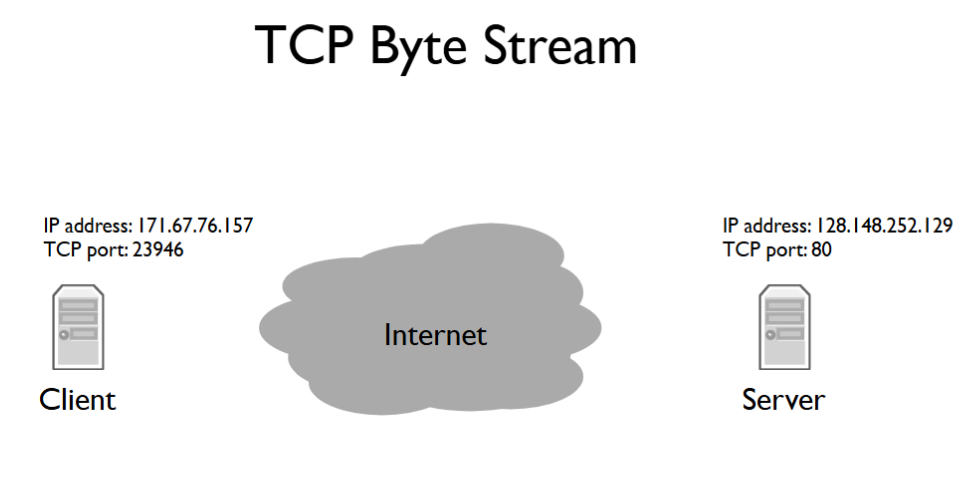
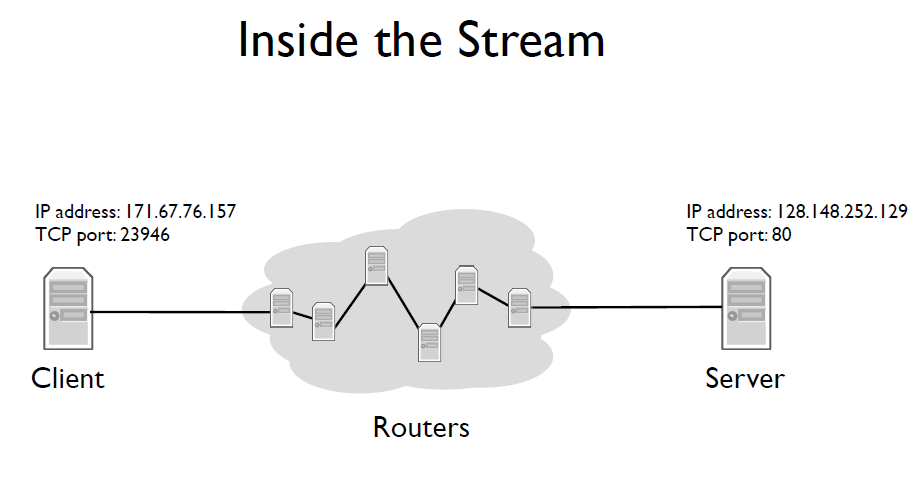
update doc at 1.4 Life of a Packet

Changed region(s): [[0.0305, 0.4092, 1.0, 0.9061], [0.2437, 0.0292, 0.6703, 0.1754]]

diff --git a/docs/lecture_notes/Unit1-Internet-and-IP.md b/docs/lecture_notes/Unit1-Internet-and-IP.md
@@ -106,41 +106,120 @@ bi-directional reliable byte stream between two applications, using application-
 
 # 1.3 The IP service model
 
-### Properties
+## Properties
 
 1. IP is a datagram service
-   The datagram is a packet that is routed individually through 3
-   the network based on the information in its header. In other words, the datagram is self-contained.
+   The datagram is a packet that is routed individually through the network based on the information in its header. In other words, the datagram is self-contained.
+   - Individually routed packets
+   - hop-by-hop routing
 
-2. Unreliable
-3. Best effort
+2. Unreliable: Packets might be dropped
+
+3. Best effort: iut only if nessesary
 4. IP is a connectionless service
+   No per-flow state
+   Packets might be mis-sequenced
 
-### The IP service
 
-1. IP tries to prevent packets from looping forever.
+### Why the IP Service is So Simple?
 
-TTL field(Time To Live):  
-It starts out at a number like 128 and then is decremented by every router it passes through. If it reaches zero, IP concludes that it must be stuck in a loop and the router drops the datagram
+The IP service model was designed with simplicity as a core principle for several interconnected reasons:
+
+1. Network Simplicity and Cost Efficiency
+- **Keep network infrastructure "dumb" and minimal** - This approach enables faster development, streamlined operations, and lower maintenance costs
+- **Hardware optimization** - Simple network components can be implemented using dedicated hardware for high-speed operation
+- **Reliability through simplicity** - Fewer complex components in distributed routers lead to more reliable and affordable systems that require less frequent upgrades
+
+2. End-to-End Principle Implementation
+- **Feature placement at endpoints** - The design philosophy emphasizes implementing intelligence at source and destination computers rather than in the network itself
+- **Application-specific optimization** - Features like reliable communication and congestion control are handled by end hosts, allowing for correct implementation tailored to specific applications
+- **Evolution flexibility** - Software-based implementations on end computers are easier to update and improve compared to network-hardcoded features
+- **Radical departure from traditional models** - This contrasts with telephone systems that relied on simple endpoints and complex network switches
+
+3. Flexibility for Diverse Application Needs
+- **Application-controlled reliability** - Different applications can implement their own reliability mechanisms based on specific requirements
+- **Real-time application support** - Services like video chat benefit from this approach since retransmitted packets might arrive too late to be useful
+- **Custom service selection** - Applications can choose whether they need reliable or unreliable transmission based on their operational needs
+
+4. Universal Link Layer Compatibility
+- **Minimal assumptions about underlying technology** - IP works with both wired and wireless connections without requiring specific link-layer capabilities
+- **Network agnostic design** - The protocol makes few demands on the link layer regarding retransmission or congestion control
+- **Interconnection focus** - Designed specifically to interconnect existing diverse networks, reflecting its origin as the "Internet" (inter-networking)
+
+This simple design philosophy has enabled IP to become the robust foundation for the modern internet while maintaining compatibility across diverse networking technologies and application requirements.
+
+## The IP service Features 
+
+1. Loop Prevention with TTL Field(Time To Live)
+- Purpose: Prevents packets from looping infinitely in the network
+- Mechanism: Uses a Time To Live (TTL) field in the datagram header that starts at a value like 128 and then is decremented by every router it passes through. If it reaches zero, IP concludes that it must be stuck in a loop and the router drops the datagram
+
+- Operation: Each router decrements the TTL by 1; if it reaches zero, the packet is dropped as it's considered stuck in a loop
+- Design philosophy: Simple mechanism that limits damage from looping packets without preventing loops entirely
+
+
 
 2. IP will fragment packets if they are too long.
+
+- Purpose: Handles packets that exceed link-specific size limitations
+- Problem addressed: Different network links have varying maximum packet sizes (e.g., Ethernet: 1500 bytes)
+- Solution: Routers can fragment oversized datagrams into smaller ones with appropriate header fields
+- Reassembly: Destination hosts receive information needed to properly reassemble the original data
+
+
 3. IP uses a header checksum to reduce chances of delivering a datagram to the wrong destination.
-4. two versions of IP in use today:
-   - IPv4, It uses the 32bit addresses you are probably familiar with.
-   - IPv6, which uses 128 bit addresses instead
-5. IP allows new fields to be added to the
-   datagram header
+- Purpose: Reduces chances of delivering datagrams to incorrect destinations due to header corruption
+- Implementation: Includes a checksum field calculated over the entire header
+- Security aspect: Helps prevent accidental misdelivery that could cause security problems
 
-### IPv4-Datagram
 
-![IPv4-Datagram](../images/IPv4-Datagram.png)
 
-- The Protocol ID
-  that tells us what is inside the data field. Essentially, it allows the destination end host to demultiplex arriving packets, sending them to the correct code to process the packet.
-  If the Protocol ID has the value “6” then it tells us the data contains a TCP Segment, and so we can safely pass the datagram to the TCP code and it will be able to parse the segment correctly.
+4. Allow for new IP versions 
+- IPv4: Current dominant version using 32-bit addresses (~90% of end hosts)
+- IPv6: Transition version using 128-bit addresses to address IPv4 address exhaustion
+- Flexibility: Supports gradual migration between versions as the Internet evolves
 
-  The Internet Assigned Numbers Authority (IANA) defines over 140
-  different values of Protocol ID, representing different transport protocols.
+
+5. Extensible Header Options
+- Capability: Allows new fields to be added to the datagram header beyond the standard format
+- Advantages: Enables new features that weren't included in the original specification
+- Disadvantages: May add processing overhead to routers, potentially conflicting with the goal of simplicity
+- Usage: Very few options are commonly used or processed by routers in practice
+
+## IPv4-Datagram
+
+![IPv4-Datagram](../../images/IPv4-Datagram.png)
+
+Here's a summary of the IPv4 header fields and their purposes:
+
+**Essential Fields (the "big three"):**
+1. **Destination IP Address** - Where the packet is going
+2. **Source IP Address** - Where the packet came from
+3. **Protocol ID** - What's inside the data field (e.g., "6" = TCP segment);  
+   Essentially, it allows the destination end host to demultiplex arriving packets, sending them to the correct code to process the packet.
+  Ex: If the Protocol ID has the value “6” then it tells us the data contains a TCP Segment, and so we can safely pass the datagram to the TCP code and it will be able to parse the segment correctly.
+  **The Internet Assigned Numbers Authority (IANA)** defines over 140 different values of Protocol ID, representing different transport protocols.
+
+
+**Version and Size Fields:**
+1. **Version** - Identifies IP version (IPv4 or IPv6)
+2. **Total Packet Length** - Up to 64k Bytes (header + data)
+3. **Header Length** - Size of the header (varies due to optional fields)
+
+**Reliability and Control Fields:**
+7. **Time to Live (TTL)** - Decremented by each router; packet dropped when it reaches zero, preventing infinite loops
+8. **Checksum** - Validates header integrity to avoid misdelivery due to corruption
+
+**Fragmentation Fields:**
+9. **Packet ID, Flags, and Fragment Offset** - Allow routers to break packets into smaller pieces when needed for links with smaller maximum sizes
+
+**Quality of Service:**
+10. **Type of Service** - Hints to routers about packet importance/priority
+
+The key takeaway: IP is deliberately simple. It provides best-effort delivery with minimal guarantees—just basic addressing, demultiplexing, and some mechanisms to prevent disasters like infinite loops.
+
+
+
 
 - The Type of Service field
   gives a hint to routers about how important this packet is.
@@ -150,36 +229,40 @@ It starts out at a number like 128 and then is decremented by every router it pa
 
 # 1.4 Life of a Packet
 
-## Three way handshake
-
-the three way handshake is described as “synchronize,
-synchronize and acknowledge, acknowledge”, or “SYN, SYN-ACK, ACK”.
-
-1. SYN
-   when the client sends a “synchronize” message to the server, often
-   called a SYN.
-
-2. SYN-ACK
-   when the server responds with a “synchronize” message that also acknowledges the clients “synchronize”, or a “synchronize and acknowledge message”, often called a SYN-ACK.
-
-3. ACK
-   when the client responds by acknowledging the server’s synchronize, often called an ACK.
 
 ## TCP Byte Stream
 
-![TCP Byte Stream](../images/TCP-Byte-Stream.png)
+![TCP Byte Stream](../../images/TCP-Byte-Stream.png)
 
-1. an Internet Protocol address
-   is the address the network layer uses to deliver packets to the computer.
+**Two-Level Addressing:**
+To deliver data to applications (not just computers), two addresses are needed:
+1. **Internet Protocol(IP) Address** - Network layer uses this to deliver packets to the destination computer
+2. **TCP Port** - Transport layer uses this to deliver data to the correct application on that computer
 
-2. the TCP port
-   tells the computer’s software which application to deliver data to
+Example: Web servers typically run on **TCP port 80**, 
+So when we open a connection to a web server, we send IP packets to the computer running the web server whose destination address is that computer’s IP address. Those IP packets have TCP segments whose destination port is 80.
+so connections to web servers use the server's IP address plus destination port 80.
 
-Web servers usually run on TCP port 80. So when we open a connection to a web server, we send IP packets to the computer running the web server whose destination address is that computer’s IP address. Those IP packets have TCP segments whose destination port is 80.
+**TCP Connection Establishment - Three-Way Handshake:**
+1. **SYN** - Client sends a "synchronize" message to the server
+2. **SYN-ACK** - when the server responds with a “synchronize” message that also acknowledges the clients “synchronize”, or a “synchronize and acknowledge message”
+3. **ACK** - Client acknowledges the server's synchronize
+
+This three-message exchange opens a connection between client and server.
+
+**Packet Routing:**
+- Clients and servers aren't directly connected; packets travel through intermediate routers
+- Each link between routers is called a **hop**
+- Routers forward packets along their links, deciding which link to use for each arriving packet
+- Routers can also deliver packets to their own software (e.g., when you log into the router itself)
+
+**Key Insight:** The network layer (IP) delivers to computers, while the transport layer (TCP) delivers to applications within those computers.
+
+
 
 ### Inside each hop in router
 
-![Inside each hop in router](../images/Inside-router-hop.png)
+![Inside each hop in router](../../images/Inside-router-hop.png)
 
 How does a router make this decision?
 
@@ -190,6 +273,9 @@ A forwarding table consists of a set of IP address patterns and the link to send
 When a packet arrives, the router checks which forwarding table entry’s pattern best matches the packet. It forwards the packet along that entry’s link.
 
 Generally, “best” means the most specific match. I’ll describe how this matching works in more detail in the video on longest prefix match.
+
+
+
 
 ## Under the Hood
 
